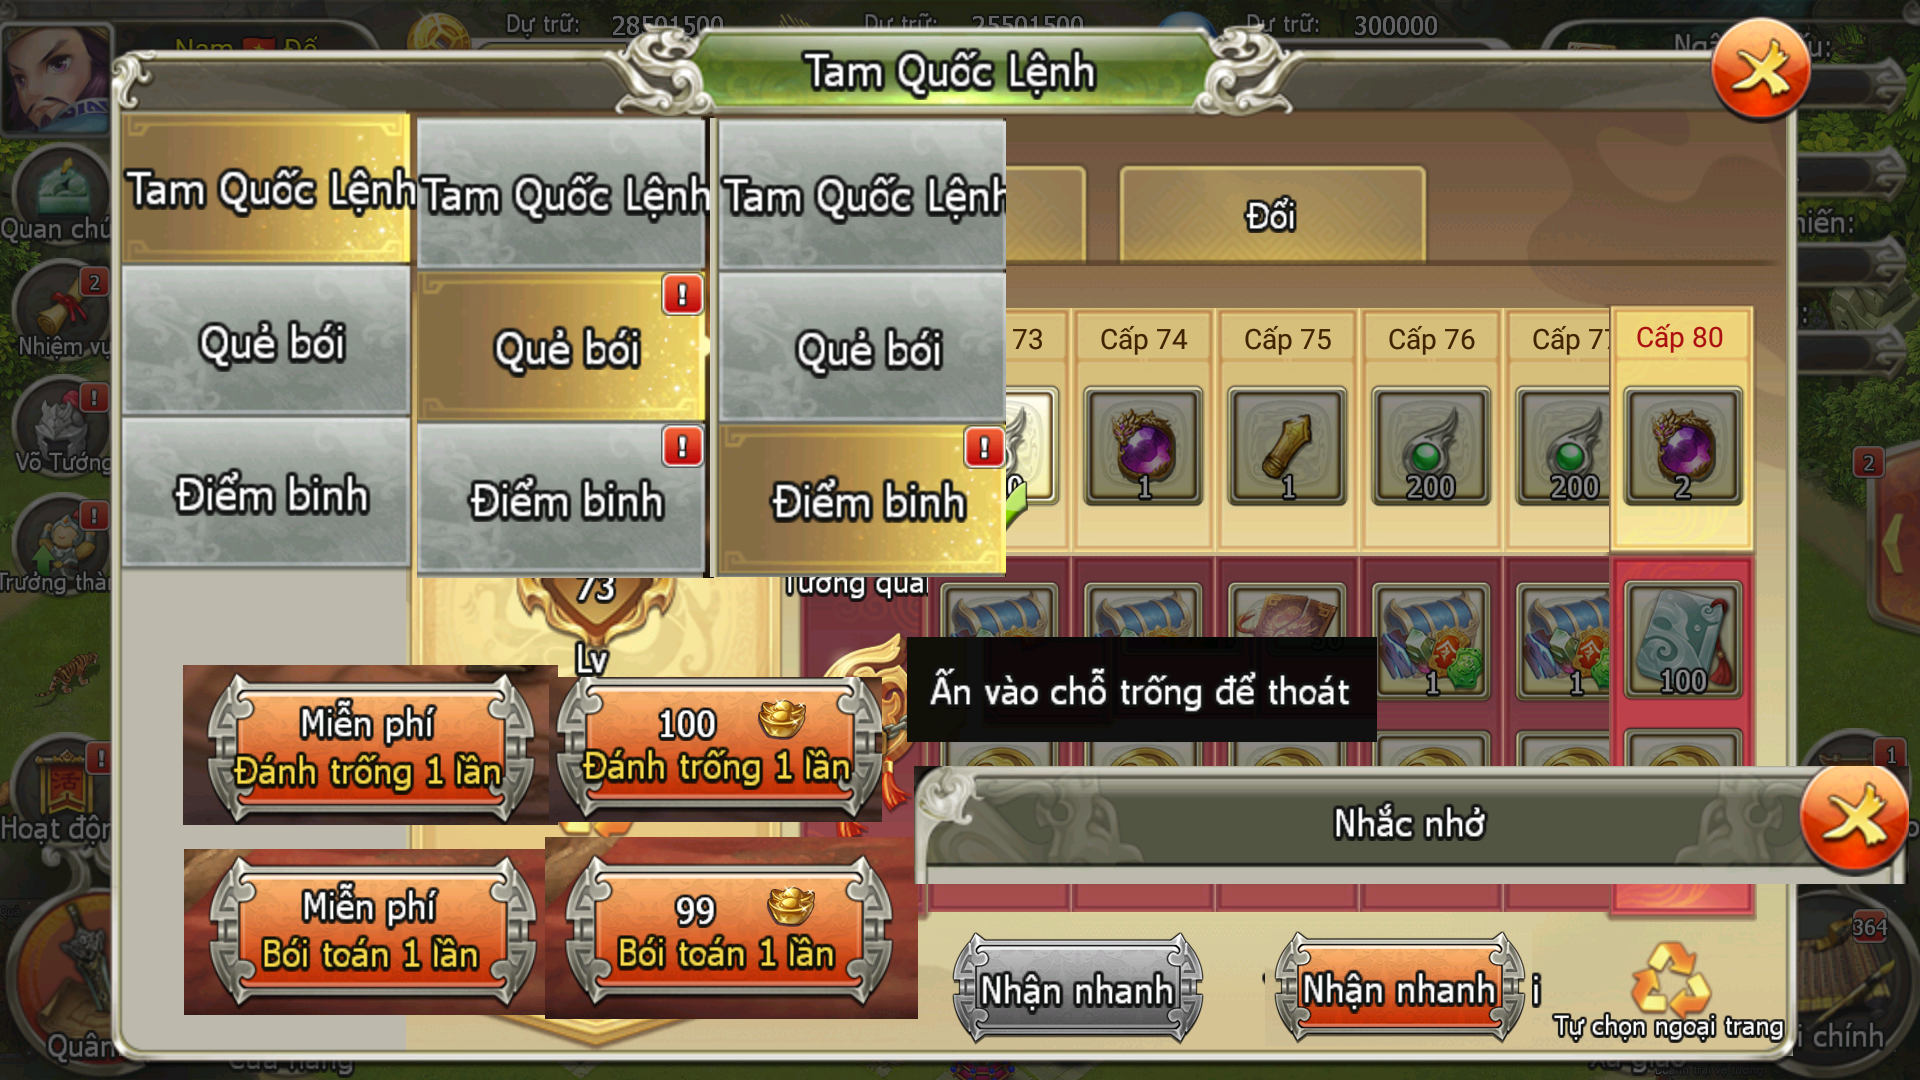
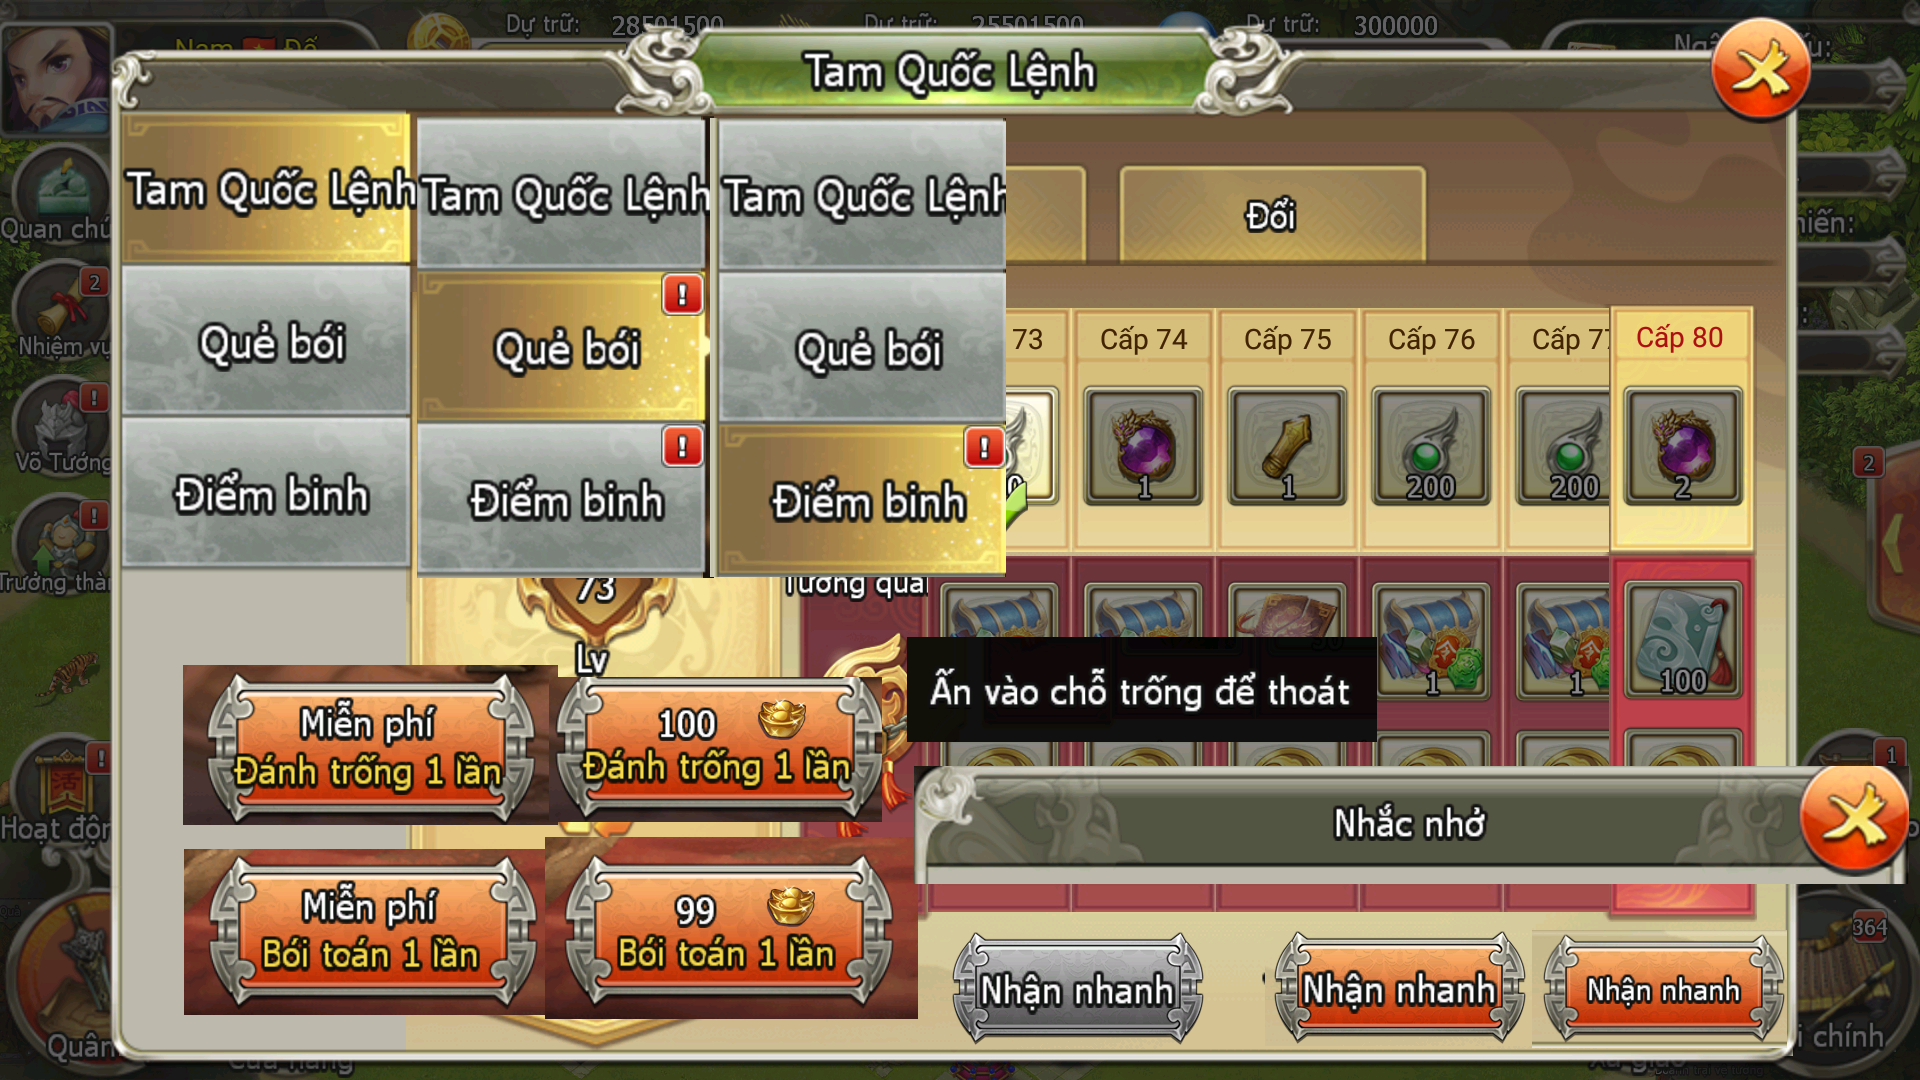
atr

Changed region(s): [[0.7812, 0.8556, 0.9375, 0.9778]]

diff --git a/dctq_auto/tasks/common/three_kingdom/task_run_three_kingdom.py b/dctq_auto/tasks/common/three_kingdom/task_run_three_kingdom.py
@@ -7,6 +7,8 @@ from dctq_auto.config.constants import (
     _TEMPLATE_TAM_QUOC_LENH_MIEN_PHI,
     _TEMPLATE_TAM_QUOC_LENH_AN_CHO_TRONG_DE_THOAT,
     _TEMPLATE_TAM_QUOC_LENH_NHAN_THUONG_NHANH,
+    _TEMPLATE_TAM_QUOC_LENH_NHAN_THUONG_NHANH2,
+    _TEMPLATE_TAM_QUOC_LENH_THUONG_NHIEM_VU,
     _TEMPLATE_TAM_QUOC_LENH_QUE_BOI_DIEM_BINH_MIEN_PHI,
 )
 from dctq_auto.tasks.common.battle.battle_utils import click_match, match, screen_bgr
@@ -19,6 +21,8 @@ _TEMPLATES = (
     _TEMPLATE_TAM_QUOC_LENH_MIEN_PHI,
     _TEMPLATE_TAM_QUOC_LENH_AN_CHO_TRONG_DE_THOAT,
     _TEMPLATE_TAM_QUOC_LENH_NHAN_THUONG_NHANH,
+    _TEMPLATE_TAM_QUOC_LENH_NHAN_THUONG_NHANH2,
+    _TEMPLATE_TAM_QUOC_LENH_THUONG_NHIEM_VU,
     _TEMPLATE_TAM_QUOC_LENH_HOP_THOAI_SU_DUNG_KNB_DONG,
     _TEMPLATE_TAM_QUOC_LENH_QUE_BOI_DIEM_BINH_MIEN_PHI,
 )

diff --git a/dctq_auto/config/constants.py b/dctq_auto/config/constants.py
@@ -67,7 +67,9 @@ _TEMPLATE_MAIN_DANG_MO_CHIEN_TRANH = "main/dang_mo_chien_tranh"
 
 _TEMPLATE_TAM_QUOC_LENH_MAN_HINH_CHINH = "tam_quoc_lenh/man_hinh_chinh"
 _TEMPLATE_TAM_QUOC_LENH_DONG_MAN_HINH_CHINH = "tam_quoc_lenh/dong_man_hinh_chinh"
+_TEMPLATE_TAM_QUOC_LENH_THUONG_NHIEM_VU = "tam_quoc_lenh/thuong_nhiem_vu"
 _TEMPLATE_TAM_QUOC_LENH_NHAN_THUONG_NHANH = "tam_quoc_lenh/nhan_thuong_nhanh"
+_TEMPLATE_TAM_QUOC_LENH_NHAN_THUONG_NHANH2 = "tam_quoc_lenh/nhan_thuong_nhanh2"
 _TEMPLATE_TAM_QUOC_LENH_QUE_BOI_DIEM_BINH_MIEN_PHI = "tam_quoc_lenh/que_boi_diem_binh_mien_phi"
 _TEMPLATE_TAM_QUOC_LENH_QUE_BOI = "tam_quoc_lenh/que_boi"
 _TEMPLATE_TAM_QUOC_LENH_DIEM_BINH = "tam_quoc_lenh/diem_binh"
